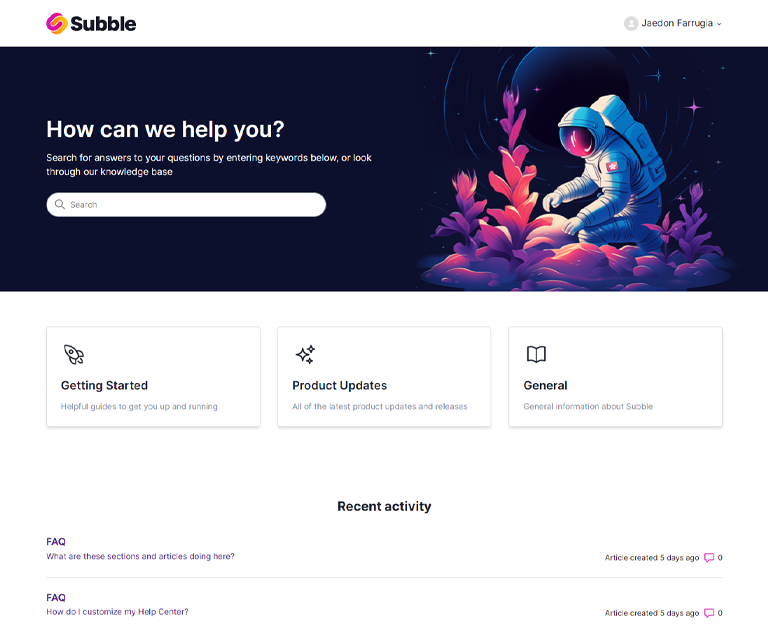
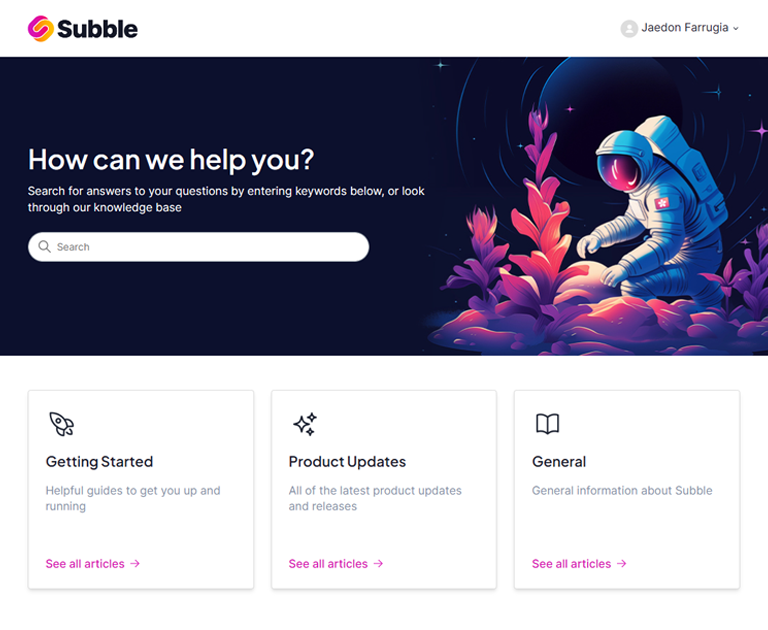
style: update homepage cards and change heading font

diff --git a/style.css b/style.css
@@ -2,6 +2,7 @@
 /***** Normalize.css *****/
 /*! normalize.css v8.0.1 | MIT License | github.com/necolas/normalize.css */
 @import url("https://fonts.googleapis.com/css2?family=Inter:wght@100..900&display=swap");
+@import url("https://fonts.googleapis.com/css2?family=Plus+Jakarta+Sans:ital,wght@0,200..800;1,200..800&display=swap");
 html {
   line-height: 1.15;
   -webkit-text-size-adjust: 100%;
@@ -201,7 +202,7 @@ body {
   color: $text_color;
   font-family: $text_font;
   font-size: 16px;
-  line-height: 1.5;
+  line-height: 1.4;
   -webkit-font-smoothing: antialiased;
 }
 @media (min-width: 1024px) {
@@ -1152,7 +1153,7 @@ ul {
   background-position: center;
   background-size: cover;
   height: 420px;
-  padding: 0 20px;
+  padding: 0 5%;
   width: 100%;
 }
 .hero-inner {
@@ -1205,9 +1206,9 @@ ul {
 @media (min-width: 768px) {
   .page-header {
     align-items: baseline;
-    flex-direction: row;
+    flex-direction: column;
     flex-wrap: nowrap;
-    gap: 16px;
+    gap: 8px;
     margin: 0;
   }
 }
@@ -1283,35 +1284,40 @@ ul {
 }
 @media (min-width: 768px) {
   .blocks-list {
-    margin: 0 -15px;
+    gap: 24px;
   }
 }
 .blocks-item {
+  display: flex;
+  flex-direction: column;
+  justify-content: space-between;
+  padding: 24px;
+  min-height: 280px;
   background-color: white;
   border: 1px solid #ddd;
   border-radius: 4px;
   box-sizing: border-box;
   display: flex;
   flex: 1 0 340px;
-  margin: 0 0 30px;
-  max-width: 100%;
-  text-align: center;
+  margin: 0 0 24px;
+  flex: 1 1 calc(33.333% - 24px);
   align-items: flex-start;
   box-shadow: rgba(0, 0, 0, 0.1) 0px 4px 6px -1px, rgba(0, 0, 0, 0.06) 0px 2px 4px -1px;
 }
-@media (min-width: 768px) {
+@media (max-width: 768px) {
   .blocks-item {
-    margin: 0 15px 30px;
+    flex: 1 1 calc(100% - 24px);
   }
 }
 .blocks-item:hover, .blocks-item:focus, .blocks-item:active {
-  background-color: #fbe7f8;
+  box-shadow: rgba(0, 0, 0, 0.1) 0px 20px 25px -5px, rgba(0, 0, 0, 0.04) 0px 10px 10px -5px;
+  background-color: #fff8fe;
   border: 1px solid $brand_color;
+  animation: float-card 100ms ease-out;
 }
 .blocks-item:hover *, .blocks-item:focus *, .blocks-item:active * {
   color: $text_color;
   text-decoration: none;
-  fill: red;
 }
 .blocks-item-internal {
   background-color: transparent;
@@ -1328,30 +1334,42 @@ ul {
 }
 .blocks-item-link {
   color: $brand_color;
-  padding: 24px;
   display: flex;
   flex-direction: column;
-  flex: 1;
-  justify-content: center;
+  justify-content: space-between;
   align-items: flex-start;
   border-radius: inherit;
+  height: 100%;
 }
 .blocks-item-link:visited, .blocks-item-link:hover, .blocks-item-link:active {
   color: inherit;
   text-decoration: none;
 }
 .blocks-item-link:focus {
-  outline: 0;
-  box-shadow: 0 0 0 3px $brand_color;
   text-decoration: none;
+}
+.blocks-item-link-btn {
+  display: flex;
+  flex-direction: row;
+  justify-content: flex-end;
+  height: fit-content;
+  gap: 0.4rem;
+}
+.blocks-item-link-btn p {
+  margin: 0;
+  color: $brand_color;
+  font-weight: 500;
+}
+.blocks-item-link-btn div {
+  width: 1rem;
 }
 .blocks-item-title {
   color: $text_color;
-  margin-bottom: 0;
+  margin-bottom: 1rem;
   font-size: 20px;
 }
 .blocks-item-description {
-  font-size: 14px;
+  font-size: 16px;
   color: #8891a7;
   margin: 0;
 }
@@ -1364,13 +1382,23 @@ ul {
   height: 100%;
 }
 
-/***** Homepage *****/
-.section {
-  margin-bottom: 40px;
+@keyframes float-card {
+  0% {
+    box-shadow: rgba(0, 0, 0, 0.1) 0px 4px 6px -1px, rgba(0, 0, 0, 0.06) 0px 2px 4px -1px;
+  }
+  100% {
+    box-shadow: rgba(0, 0, 0, 0.1) 0px 20px 25px -5px, rgba(0, 0, 0, 0.04) 0px 10px 10px -5px;
+  }
 }
+/***** Homepage *****/
 @media (min-width: 768px) {
   .section {
-    margin-bottom: 60px;
+    margin-bottom: 3rem;
+  }
+}
+@media (max-width: 768px) {
+  .section {
+    margin-bottom: 2rem;
   }
 }
 
@@ -1445,11 +1473,6 @@ ul {
 }
 .community a:hover, .community a:active, .community a:focus {
   color: $hover_link_color;
-}
-
-.community,
-.activity {
-  padding: 30px 0;
 }
 
 /***** Recent activity *****/

diff --git a/styles/_blocks.scss b/styles/_blocks.scss
@@ -3,7 +3,7 @@
 .blocks {
   &-list {
     @include tablet {
-      margin: 0 -15px;
+      gap: 24px;
     }
 
     display: flex;
@@ -14,8 +14,17 @@
   }
 
   &-item {
+    display: flex;
+    flex-direction: column;
+    justify-content: space-between;
+    padding: 24px;
+    min-height: 280px;
     @include tablet {
-      margin: 0 15px 30px;
+      // margin: 0 15px 30px;
+    }
+
+    @include mobile {
+      flex: 1 1 calc(100% - 24px);
     }
 
     background-color: white;
@@ -24,9 +33,8 @@
     box-sizing: border-box;
     display: flex;
     flex: 1 0 340px;
-    margin: 0 0 30px;
-    max-width: 100%;
-    text-align: center;
+    margin: 0 0 24px;
+    flex: 1 1 calc(33.333% - 24px);
     align-items: flex-start;
     box-shadow: rgba(0, 0, 0, 0.1) 0px 4px 6px -1px,
       rgba(0, 0, 0, 0.06) 0px 2px 4px -1px;
@@ -34,13 +42,15 @@
     &:hover,
     &:focus,
     &:active {
-      background-color: #fbe7f8;
+      box-shadow: rgba(0, 0, 0, 0.1) 0px 20px 25px -5px,
+        rgba(0, 0, 0, 0.04) 0px 10px 10px -5px;
+      background-color: #fff8fe;
       border: 1px solid $brand_color;
+      animation: float-card 100ms ease-out;
 
       * {
         color: $text_color;
         text-decoration: none;
-        fill: red;
       }
     }
 
@@ -63,13 +73,12 @@
 
   &-item-link {
     color: $brand_color;
-    padding: 24px;
     display: flex;
     flex-direction: column;
-    flex: 1;
-    justify-content: center;
+    justify-content: space-between;
     align-items: flex-start;
     border-radius: inherit;
+    height: 100%;
 
     &:visited,
     &:hover,
@@ -79,19 +88,35 @@
     }
 
     &:focus {
-      @include focus-ring;
+      // @include focus-ring;
       text-decoration: none;
+    }
+
+    &-btn {
+      display: flex;
+      flex-direction: row;
+      justify-content: flex-end;
+      height: fit-content;
+      gap: 0.4rem;
+      p {
+        margin: 0;
+        color: $brand_color;
+        font-weight: 500;
+      }
+      div {
+        width: 1rem;
+      }
     }
   }
 
   &-item-title {
     color: $text_color;
-    margin-bottom: 0;
+    margin-bottom: 1rem;
     font-size: 20px;
   }
 
   &-item-description {
-    font-size: 14px;
+    font-size: 16px;
     color: #8891a7;
     margin: 0;
   }
@@ -104,4 +129,15 @@
 .category-image {
   width: 100%;
   height: 100%;
+}
+
+@keyframes float-card {
+  0% {
+    box-shadow: rgba(0, 0, 0, 0.1) 0px 4px 6px -1px,
+      rgba(0, 0, 0, 0.06) 0px 2px 4px -1px;
+  }
+  100% {
+    box-shadow: rgba(0, 0, 0, 0.1) 0px 20px 25px -5px,
+      rgba(0, 0, 0, 0.04) 0px 10px 10px -5px;
+  }
 }

diff --git a/styles/_home-page.scss b/styles/_home-page.scss
@@ -2,10 +2,15 @@
 
 .section {
   @include tablet {
-    margin-bottom: 60px;
+    // margin-bottom: 60px;
+    margin-bottom: 3rem;
   }
 
-  margin-bottom: 40px;
+  @include mobile {
+    margin-bottom: 2rem;
+  }
+
+  // margin-bottom: 40px;
 }
 
 .home-section h2 {
@@ -80,5 +85,5 @@
 .community,
 .activity {
   // border-top: 1px solid $low-contrast-border-color;
-  padding: 30px 0;
+  // padding: 30px 0;
 }

diff --git a/styles/normalize.css b/styles/normalize.css
@@ -2,6 +2,7 @@
 
 /*! normalize.css v8.0.1 | MIT License | github.com/necolas/normalize.css */
 @import url("https://fonts.googleapis.com/css2?family=Inter:wght@100..900&display=swap");
+@import url('https://fonts.googleapis.com/css2?family=Plus+Jakarta+Sans:ital,wght@0,200..800;1,200..800&display=swap');
 html {
   line-height: 1.15;
   -webkit-text-size-adjust: 100%;

diff --git a/styles/_page_header.scss b/styles/_page_header.scss
@@ -1,11 +1,10 @@
 // Component made for elements that are separated with space between
 .page-header {
-
   @include tablet {
     align-items: baseline;
-    flex-direction: row;
+    flex-direction: column;
     flex-wrap: nowrap;
-    gap: 16px;
+    gap: 8px;
     margin: 0;
   }
 

diff --git a/styles/_base.scss b/styles/_base.scss
@@ -8,7 +8,7 @@ body {
   color: $text_color;
   font-family: $text_font;
   font-size: $font-size-base;
-  line-height: 1.5;
+  line-height: 1.4;
   -webkit-font-smoothing: antialiased;
 
   > main {

diff --git a/styles/_hero.scss b/styles/_hero.scss
@@ -4,7 +4,7 @@
   background-position: center;
   background-size: cover;
   height: 420px;
-  padding: 0 20px;
+  padding: 0 5%;
   width: 100%;
 
   &-inner {
